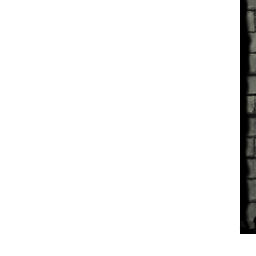
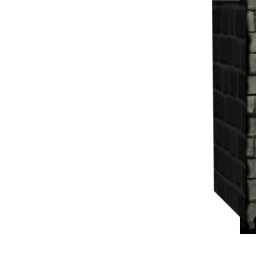
Added right walls

Changed region(s): [[0.8125, 0.0, 0.9688, 0.8438]]

diff --git a/src/dungeon/inter.cpp b/src/dungeon/inter.cpp
@@ -383,7 +383,6 @@ void Inter::showTileContextMenu(const sf::Vector2u& coords, const sf::Vector2f& 
 
 void Inter::showEditTreasureDialog(const sf::Vector2u& coords)
 {
-    auto& room = m_data->room(coords);
     auto& treasureData = *findOfType(m_data->room(coords).facilities, L"treasure");
     auto& treasureDosh = treasureData[L"dosh"].as_uint32();
 
@@ -555,6 +554,14 @@ void Inter::refreshTileLayers(const sf::Vector2u& coords)
     // Reset
     clearLayers(coords);
 
+    // Room is somehow bugged
+    if (state == Data::RoomState::UNKNOWN) {
+        std::cerr << "/!\\ Found a room with unknown state at " << coords << "." << std::endl;
+        std::cerr << "If that is a recurrent issue, please report this bug." << std::endl;
+        addLayer(coords, TextureID::DEFAULT);
+        return;
+    }
+
     // Room is not constructed
     if (state == Data::RoomState::VOID)
     {
@@ -568,20 +575,18 @@ void Inter::refreshTileLayers(const sf::Vector2u& coords)
         if (m_data->isRoomConstructed(m_data->roomNeighbourCoords(coords, Data::EAST)))
             addLayer(coords, TextureID::DUNGEON_INTER_VOID_EAST_TRANSITION);
 
-        return;
-    }
+        if (coords.y == m_data->roomsByFloor() - 1u)
+            addLayer(coords, TextureID::DUNGEON_INTER_VOID_RIGHT_WALL);
 
-    // Room is somehow bugged
-    if (state == Data::RoomState::UNKNOWN) {
-        std::cerr << "/!\\ Found a room with unknown state at " << coords << "." << std::endl;
-        std::cerr << "If that is a reccurent issue, please report this bug." << std::endl;
-        addLayer(coords, TextureID::DEFAULT);
         return;
     }
 
     // Add room textures
     addLayer(coords, TextureID::DUNGEON_INTER_INNER_WALL);
     addLayer(coords, TextureID::DUNGEON_INTER_FLOOR);
+
+    if (!m_data->isRoomConstructed(m_data->roomNeighbourCoords(coords, Data::EAST)))
+        addLayer(coords, TextureID::DUNGEON_INTER_RIGHT_WALL);
 
     // Facilities
     // TODO Use same structure than Traps!! facilities::make()

diff --git a/src/core/loadtextures.cpp b/src/core/loadtextures.cpp
@@ -49,12 +49,14 @@ void Application::loadTextures()
     s_context.textures.load(TextureID::DUNGEON_PANEL_FACILITIES, "res/tex/dungeon/panel/facilities.png");
 
     s_context.textures.load(TextureID::DUNGEON_INTER_VOID_INNER_WALL, "res/tex/dungeon/inter/void_inner_wall.png");
+    s_context.textures.load(TextureID::DUNGEON_INTER_VOID_RIGHT_WALL, "res/tex/dungeon/inter/void_right_wall.png");
     s_context.textures.load(TextureID::DUNGEON_INTER_VOID_FLOOR, "res/tex/dungeon/inter/void_floor.png");
     s_context.textures.load(TextureID::DUNGEON_INTER_VOID_EAST_TRANSITION, "res/tex/dungeon/inter/void_east_transition.png");
     s_context.textures.load(TextureID::DUNGEON_INTER_VOID_WEST_TRANSITION, "res/tex/dungeon/inter/void_west_transition.png");
     s_context.textures.load(TextureID::DUNGEON_INTER_VOID_SOUTH_TRANSITION, "res/tex/dungeon/inter/void_south_transition.png");
     s_context.textures.load(TextureID::DUNGEON_INTER_INNER_WALL, "res/tex/dungeon/inter/inner_wall.png");
     s_context.textures.load(TextureID::DUNGEON_INTER_OUTER_WALL, "res/tex/dungeon/inter/outer_wall.png");
+    s_context.textures.load(TextureID::DUNGEON_INTER_RIGHT_WALL, "res/tex/dungeon/inter/right_wall.png");
     s_context.textures.load(TextureID::DUNGEON_INTER_FLOOR, "res/tex/dungeon/inter/floor.png");
     s_context.textures.load(TextureID::DUNGEON_INTER_ENTRANCE, "res/tex/dungeon/inter/entrance.png");
     s_context.textures.load(TextureID::DUNGEON_INTER_LADDER, "res/tex/dungeon/inter/ladder.png");

diff --git a/inc/resources/identifiers.hpp b/inc/resources/identifiers.hpp
@@ -39,12 +39,14 @@ enum class TextureID : uint8
     DUNGEON_FACILITIES_LADDER,
     DUNGEON_FACILITIES_TREASURE,
     DUNGEON_INTER_VOID_INNER_WALL,
+    DUNGEON_INTER_VOID_RIGHT_WALL,
     DUNGEON_INTER_VOID_FLOOR,
     DUNGEON_INTER_VOID_EAST_TRANSITION,
     DUNGEON_INTER_VOID_WEST_TRANSITION,
     DUNGEON_INTER_VOID_SOUTH_TRANSITION,
     DUNGEON_INTER_INNER_WALL,
     DUNGEON_INTER_OUTER_WALL,
+    DUNGEON_INTER_RIGHT_WALL,
     DUNGEON_INTER_FLOOR,
     DUNGEON_INTER_ENTRANCE,
     DUNGEON_INTER_LADDER,
